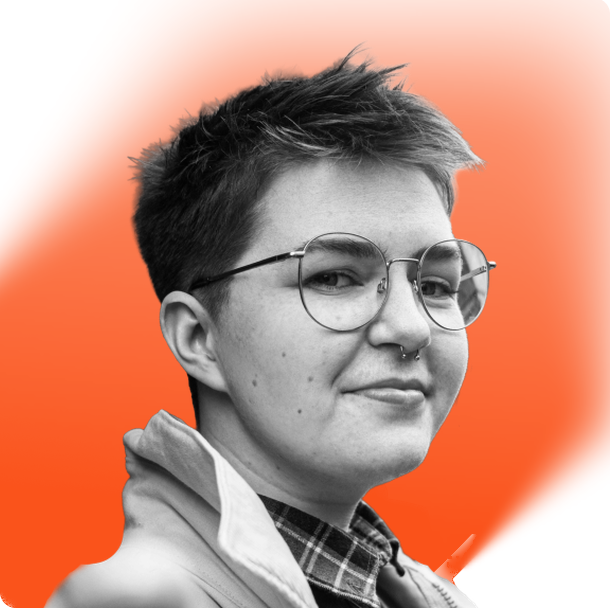
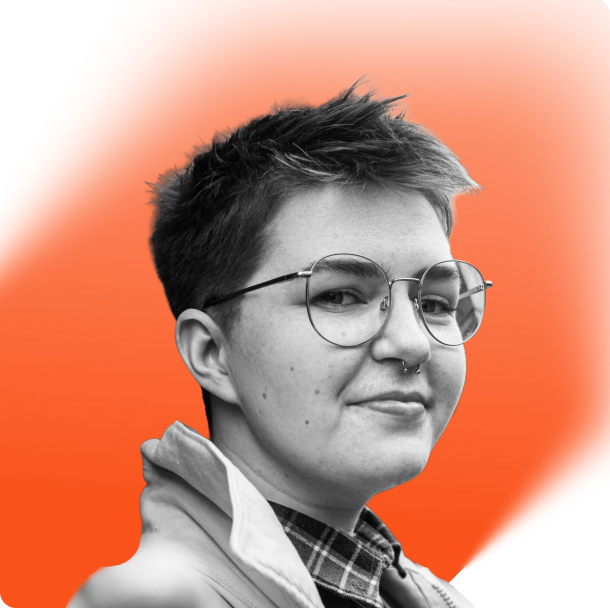
speakers updated

Changed region(s): [[0.0623, 0.0625, 0.8098, 1.0], [0.7475, 0.875, 0.7787, 0.9062]]

diff --git a/index.html b/index.html
@@ -14,7 +14,7 @@
   <link rel="preload" as="image" href="images/hero-title-desktop.svg?v=20260624-1" type="image/svg+xml" media="(min-width: 768px)">
   <link rel="preload" as="image" href="images/hero-title-mobile.svg?v=20260624-1" type="image/svg+xml" media="(max-width: 767px)">
   <link href="https://fonts.googleapis.com/css2?family=Funnel+Sans:wght@300..400&family=JetBrains+Mono:wght@300..400&display=swap" rel="stylesheet">
-  <link rel="stylesheet" href="css/style.css?v=speaker-luis-role-break-1">
+  <link rel="stylesheet" href="css/style.css?v=speaker-scroll-indicator-2">
 </head>
 <body>
   <header class="topbar nav-glass">
@@ -227,7 +227,7 @@
       <div class="page-wrap speaker-list-layout">
         <h2 class="section-heading" id="speaker-list-title">Meet the<br>Speakers</h2>
 
-        <div class="speaker-carousel" aria-label="Speaker list" data-speaker-page="0" data-drag-scroll>
+        <div class="speaker-carousel" aria-label="Speaker list" data-speaker-slider data-drag-scroll>
           <div class="speaker-track" data-speaker-track>
             <div class="speaker-card-set">
               <article class="speaker-card">
@@ -316,34 +316,6 @@
 
               <article class="speaker-card">
                 <div class="speaker-media">
-                  <img src="images/speakers/chloe-hodgson-2026.png" alt="Chloe Hodgson">
-                </div>
-                <div class="speaker-info">
-                  <div>
-                    <h3>Chloe Hodgson</h3>
-                    <p>UX Designer</p>
-                    <p class="speaker-company">Freelance</p>
-                  </div>
-                  <img class="speaker-card-arrow" src="images/arrow-up.svg" alt="" aria-hidden="true">
-                </div>
-              </article>
-
-              <article class="speaker-card">
-                <div class="speaker-media">
-                  <img src="images/speakers/jozef-kulik-speaker-list-2026.png" alt="Józef Kulik">
-                </div>
-                <div class="speaker-info">
-                  <div>
-                    <h3>Józef Kulik</h3>
-                    <p>Senior Researcher and<br>Accessibility Lead</p>
-                    <p class="speaker-company">PlaytestCloud</p>
-                  </div>
-                  <img class="speaker-card-arrow" src="images/arrow-up.svg" alt="" aria-hidden="true">
-                </div>
-              </article>
-
-              <article class="speaker-card">
-                <div class="speaker-media">
                   <img src="images/speakers/abhishek-agarwal-2026.png" alt="Abhishek Agarwal">
                 </div>
                 <div class="speaker-info">
@@ -364,6 +336,34 @@
                   <div>
                     <h3>Lydia Ho Lee Wei</h3>
                     <p>Game and Narrative Designer</p>
+                  </div>
+                  <img class="speaker-card-arrow" src="images/arrow-up.svg" alt="" aria-hidden="true">
+                </div>
+              </article>
+
+              <article class="speaker-card">
+                <div class="speaker-media">
+                  <img src="images/speakers/jozef-kulik-speaker-list-2026.png" alt="Józef Kulik">
+                </div>
+                <div class="speaker-info">
+                  <div>
+                    <h3>Józef Kulik</h3>
+                    <p>Senior Research and<br>Accessibility Lead</p>
+                    <p class="speaker-company">PlaytestCloud</p>
+                  </div>
+                  <img class="speaker-card-arrow" src="images/arrow-up.svg" alt="" aria-hidden="true">
+                </div>
+              </article>
+
+              <article class="speaker-card">
+                <div class="speaker-media">
+                  <img src="images/speakers/chloe-hodgson-2026.png" alt="Chloe Hodgson">
+                </div>
+                <div class="speaker-info">
+                  <div>
+                    <h3>Chloe Hodgson</h3>
+                    <p>UX Designer</p>
+                    <p class="speaker-company">Freelance</p>
                   </div>
                   <img class="speaker-card-arrow" src="images/arrow-up.svg" alt="" aria-hidden="true">
                 </div>
@@ -523,6 +523,34 @@
                 </div>
               </article>
 
+              <article class="speaker-card">
+                <div class="speaker-media">
+                  <img src="images/speakers/xingyu-zhang-2026.png" alt="Xingyu Zhang">
+                </div>
+                <div class="speaker-info">
+                  <div>
+                    <h3>Xingyu Zhang</h3>
+                    <p>Game UX Researcher</p>
+                    <p class="speaker-company">Tencent</p>
+                  </div>
+                  <img class="speaker-card-arrow" src="images/arrow-up.svg" alt="" aria-hidden="true">
+                </div>
+              </article>
+
+              <article class="speaker-card">
+                <div class="speaker-media">
+                  <img src="images/speakers/fan-yi-2026.png" alt="Fan Yi">
+                </div>
+                <div class="speaker-info">
+                  <div>
+                    <h3>Fan Yi</h3>
+                    <p>Game UX Researcher</p>
+                    <p class="speaker-company">Tencent</p>
+                  </div>
+                  <img class="speaker-card-arrow" src="images/arrow-up.svg" alt="" aria-hidden="true">
+                </div>
+              </article>
+
               <article class="speaker-card speaker-card--announcement">
                 <div class="speaker-media">
                   <img src="images/speakers/more-speakers-2026-v2.png" alt="More speakers will be announced soon">
@@ -531,6 +559,7 @@
             </div>
           </div>
         </div>
+        <div class="speaker-pagination" data-speaker-pagination aria-label="Speaker groups"></div>
       </div>
     </section>
 
@@ -862,6 +891,6 @@
     </section>
   </main>
 
-  <script src="js/main.js?v=js-drag-scroll-4" defer></script>
+  <script src="js/main.js?v=js-speaker-indicator-1" defer></script>
 </body>
 </html>

diff --git a/js/main.js b/js/main.js
@@ -81,50 +81,71 @@ function setupHotelSlider(slider) {
 }
 
 function setupSpeakerSlider(slider) {
-  const track = slider.querySelector("[data-speaker-track]");
-  const buttons = Array.from(slider.querySelectorAll("[data-speaker-page-button]"));
-  const cards = Array.from(slider.querySelectorAll(".speaker-card-set:not(.speaker-card-set--clone) .speaker-card"));
-  if (!track || !cards.length) return;
+  const pagination = slider.parentElement?.querySelector("[data-speaker-pagination]");
+  if (!pagination) return;
 
-  function setPage(page) {
-    const nextPage = page === 1 ? 1 : 0;
-    slider.dataset.speakerPage = String(nextPage);
-    buttons.forEach((button) => {
-      const isActive = button.getAttribute("data-speaker-page-button") === String(nextPage);
+  let buttons = [];
+  let pageCount = 0;
+  let frame = 0;
+
+  function getMaxScroll() {
+    return Math.max(0, slider.scrollWidth - slider.clientWidth);
+  }
+
+  function getActivePage() {
+    const maxScroll = getMaxScroll();
+    if (!maxScroll || pageCount < 2) return 0;
+    return Math.round((slider.scrollLeft / maxScroll) * (pageCount - 1));
+  }
+
+  function updateActivePage() {
+    const activePage = getActivePage();
+    buttons.forEach((button, index) => {
+      const isActive = index === activePage;
       button.classList.toggle("is-active", isActive);
       button.setAttribute("aria-current", String(isActive));
     });
   }
 
-  buttons.forEach((button) => {
-    button.addEventListener("click", () => {
-      setPage(Number(button.getAttribute("data-speaker-page-button")));
-    });
-  });
+  function scrollToPage(page) {
+    const maxScroll = getMaxScroll();
+    const left = pageCount > 1 ? (maxScroll * page) / (pageCount - 1) : 0;
+    const reduceMotion = window.matchMedia("(prefers-reduced-motion: reduce)").matches;
+    slider.scrollTo({ left, behavior: reduceMotion ? "auto" : "smooth" });
+  }
 
-  track.addEventListener("click", (event) => {
-    const target = event.target;
-    if (!(target instanceof Element) || target.closest("a, button")) return;
-
-    const card = target.closest(".speaker-card");
-    if (!card || !cards.includes(card)) return;
-
-    const sliderRect = slider.getBoundingClientRect();
-    const cardRect = card.getBoundingClientRect();
-    const currentPage = slider.dataset.speakerPage === "1" ? 1 : 0;
-    const clickX = event.clientX;
-    const sliderMidpoint = sliderRect.left + sliderRect.width / 2;
-
-    if (currentPage === 0 && (cardRect.right > sliderRect.right + 1 || clickX > sliderMidpoint)) {
-      setPage(1);
+  function renderPagination() {
+    const nextPageCount = Math.max(1, Math.ceil(slider.scrollWidth / slider.clientWidth));
+    if (nextPageCount !== pageCount) {
+      pageCount = nextPageCount;
+      pagination.replaceChildren();
+      buttons = Array.from({ length: pageCount }, (_, index) => {
+        const button = document.createElement("button");
+        button.className = "speaker-dot";
+        button.type = "button";
+        button.setAttribute("aria-label", `Show speaker group ${index + 1} of ${pageCount}`);
+        button.addEventListener("click", () => scrollToPage(index));
+        pagination.append(button);
+        return button;
+      });
     }
 
-    if (currentPage === 1 && (cardRect.left < sliderRect.left - 1 || clickX < sliderMidpoint)) {
-      setPage(0);
-    }
-  });
+    pagination.hidden = pageCount < 2;
+    updateActivePage();
+  }
 
-  setPage(Number(slider.dataset.speakerPage));
+  slider.addEventListener("scroll", () => {
+    window.cancelAnimationFrame(frame);
+    frame = window.requestAnimationFrame(updateActivePage);
+  }, { passive: true });
+
+  if ("ResizeObserver" in window) {
+    new ResizeObserver(renderPagination).observe(slider);
+  } else {
+    window.addEventListener("resize", renderPagination);
+  }
+
+  renderPagination();
 }
 
 function setupDragScroll(scroller) {

diff --git a/css/style.css b/css/style.css
@@ -1259,6 +1259,46 @@ body:not(.venue-page):has(#tickets:target) .main-nav a[href="#tickets"] {
   display: none;
 }
 
+.speaker-pagination {
+  position: relative;
+  left: 50%;
+  display: flex;
+  grid-column: 1 / -1;
+  justify-content: center;
+  gap: 8px;
+  width: 100vw;
+  margin-left: -50vw;
+  margin-top: 36px;
+}
+
+.speaker-pagination[hidden] {
+  display: none;
+}
+
+.speaker-dot {
+  display: block;
+  width: 28px;
+  height: 5px;
+  padding: 0;
+  border: 0;
+  border-radius: 999px;
+  background: var(--color-black-20);
+  cursor: pointer;
+  transition:
+    background-color 320ms ease,
+    opacity 320ms ease;
+}
+
+.speaker-dot.is-active,
+.speaker-dot[aria-current="true"] {
+  background: var(--color-black-100);
+}
+
+.speaker-dot:focus-visible {
+  outline: 2px solid var(--color-orange-100);
+  outline-offset: 4px;
+}
+
 .speaker-track {
   display: flex;
   width: max-content;
@@ -2923,10 +2963,6 @@ body:not(.venue-page):has(#tickets:target) .main-nav a[href="#tickets"] {
     font-size: 14px;
   }
 
-  .speaker-list-section {
-    overflow: visible;
-  }
-
   .speaker-list-layout {
     display: flex;
     flex-direction: column;
@@ -2937,31 +2973,35 @@ body:not(.venue-page):has(#tickets:target) .main-nav a[href="#tickets"] {
   }
 
   .speaker-carousel {
-    left: auto;
+    --speaker-gap: 12px;
+    --speaker-cards-visible: 3.2;
+    --speaker-card-width: calc(
+      (100vw - (var(--speaker-inline-start) * 2) - ((var(--speaker-cards-visible) - 1) * var(--speaker-gap)))
+      / var(--speaker-cards-visible)
+    );
     order: 2;
-    width: 100%;
-    margin-left: 0;
-    padding-left: 0;
-    padding-right: 0;
-    overflow: visible;
+    scroll-snap-type: x proximity;
+    scroll-padding-left: var(--speaker-inline-start);
   }
 
-  .speaker-carousel[data-speaker-page] .speaker-track {
-    display: block;
-    width: auto;
-    transform: none;
+  .speaker-pagination {
+    order: 3;
+    flex-wrap: wrap;
+    gap: 6px 8px;
+    margin-top: 24px;
+  }
+
+  .speaker-dot {
+    width: 20px;
+    height: 4px;
   }
 
   .speaker-card-set {
-    display: grid;
-    grid-template-columns: repeat(2, minmax(0, 1fr));
-    align-items: stretch;
-    gap: 38px var(--speaker-gap);
+    gap: var(--speaker-gap);
   }
 
   .speaker-card {
-    flex: none;
-    height: 100%;
+    scroll-snap-align: start;
   }
 
   .speaker-info {
@@ -2989,6 +3029,7 @@ body:not(.venue-page):has(#tickets:target) .main-nav a[href="#tickets"] {
     width: 14px;
     height: 14px;
     margin-top: 7px;
+    transform: none;
   }
 }
 
@@ -3211,8 +3252,10 @@ body:not(.venue-page):has(#tickets:target) .main-nav a[href="#tickets"] {
     margin-bottom: 25px;
   }
 
-  .speaker-card-set {
-    gap: 30px 12px;
+  .speaker-carousel {
+    --speaker-inline-start: 16px;
+    --speaker-gap: 12px;
+    --speaker-cards-visible: 2.2;
   }
 
   .speaker-info {
